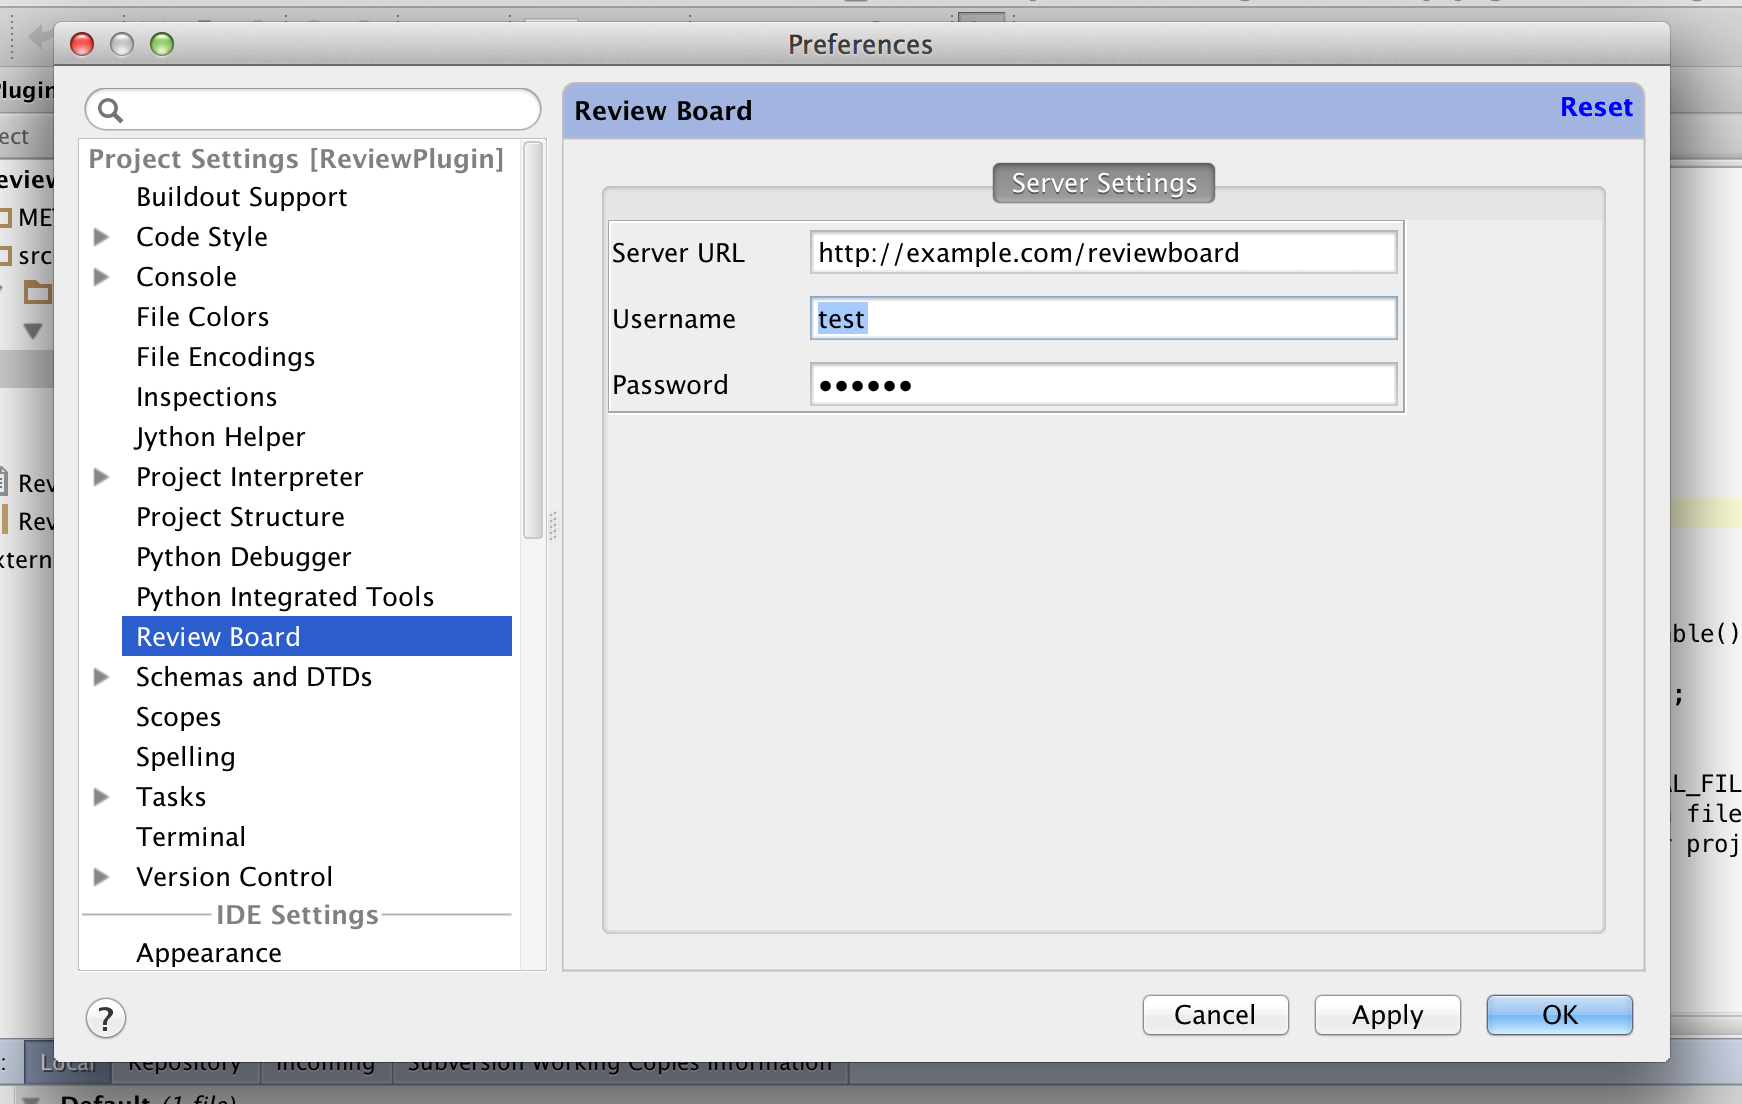
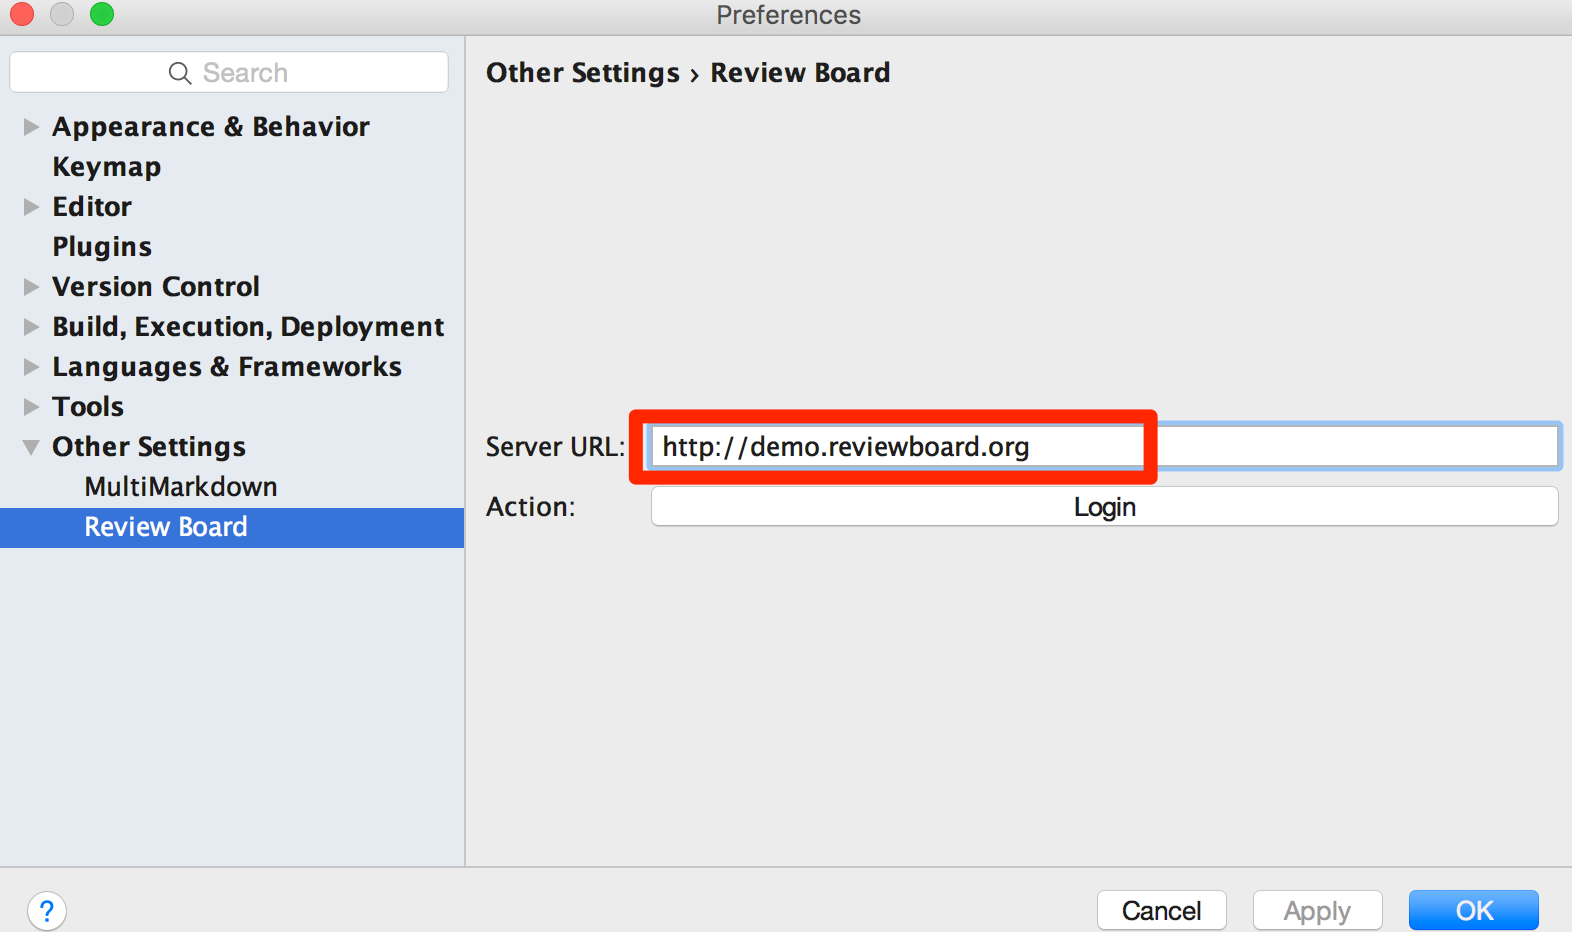
1) small refactor 2) config panel screen shot update

diff --git a/src/rb/PostReviewAction.java b/src/rb/PostReviewAction.java
@@ -16,7 +16,6 @@ import com.intellij.openapi.ui.Messages;
 import com.intellij.openapi.ui.popup.util.PopupUtil;
 import com.intellij.openapi.vcs.AbstractVcs;
 import com.intellij.openapi.vcs.ProjectLevelVcsManager;
-import com.intellij.openapi.vcs.VcsException;
 import com.intellij.openapi.vcs.changes.*;
 import com.intellij.openapi.vcs.history.VcsRevisionNumber;
 import com.intellij.openapi.vfs.VirtualFile;
@@ -65,7 +64,7 @@ public class PostReviewAction extends AnAction {
                 try {
                     VCSBuilder builder = VCSBuilder.Factory.getBuilder(vcs);
                     if (builder != null) {
-                        execute(project, builder, vFiles, changeListManager);
+                        execute(project, builder, vFiles);
                     }
                 } catch (Exception e) {
                     e.printStackTrace();
@@ -113,7 +112,7 @@ public class PostReviewAction extends AnAction {
         event.getPresentation().setEnabled(isEnable);
     }
 
-    private void execute(final Project project, final VCSBuilder vcsBuilder, VirtualFile[] vFiles, ChangeListManager changeListManager) throws Exception {
+    private void execute(final Project project, final VCSBuilder vcsBuilder, VirtualFile[] vFiles) throws Exception {
         vcsBuilder.build(project, vFiles);
         final String diff = vcsBuilder.getDiff();
         if (diff == null) {
@@ -121,22 +120,8 @@ public class PostReviewAction extends AnAction {
             return;
         }
 
-//        ReviewBoardConfig config = project.getComponent(ReviewBoardConfig.class);
-//        if (config.getServer() == null || config.getServer().isEmpty()) {
-//            Messages.showMessageDialog(project, "Please set the review board server address in config panel", "Info", null);
-//            return;
-//        }
-//        if (config.getUsername() == null || "".equals(config.getUsername())) {
-//            Messages.showMessageDialog(project, "Please set the review board user name in config panel", "Info", null);
-//            return;
-//        }
-//        if (config.getEncodedPassword() == null || config.getEncodedPassword().isEmpty()) {
-//            Messages.showMessageDialog(project, "Please set the view board password in config panel", "Info", null);
-//            return;
-//        }
-
         final ReviewBoardClient reviewBoardClient = new ReviewBoardClient();
-        Task.Backgroundable task = new Task.Backgroundable(project, "Query repository...", false, new PerformInBackgroundOption() {
+        Task.Backgroundable task = new Task.Backgroundable(project, "Query Repository...", false, new PerformInBackgroundOption() {
             @Override
             public boolean shouldStartInBackground() {
                 return false;
@@ -150,11 +135,11 @@ public class PostReviewAction extends AnAction {
             @Override
             public void run(@NotNull ProgressIndicator progressIndicator) {
                 progressIndicator.setIndeterminate(true);
-                Repository[] repositories = null;
+                Repository[] repositories;
                 try {
                     repositories = reviewBoardClient.getRepositories().repositories;
                 } catch (Exception e) {
-                    PopupUtil.showBalloonForActiveFrame("Error to list repository:"+e.getMessage(), MessageType.ERROR);
+                    PopupUtil.showBalloonForActiveFrame("Error to list repository:" + e.getMessage(), MessageType.ERROR);
                     throw new RuntimeException(e);
                 }
                 if (repositories != null) {
@@ -196,7 +181,7 @@ public class PostReviewAction extends AnAction {
                 } else {
                     setting.setDiff(vcsBuilder.getDiff());
                 }
-                Task.Backgroundable task = new Task.Backgroundable(project, "running", false, new PerformInBackgroundOption() {
+                Task.Backgroundable task = new Task.Backgroundable(project, "Running", false, new PerformInBackgroundOption() {
                     @Override
                     public boolean shouldStartInBackground() {
                         return false;
@@ -215,7 +200,7 @@ public class PostReviewAction extends AnAction {
                             int success = Messages.showYesNoDialog("The review url is " + url + "\r\n" +
                                     "Open the url?", "Success", null);
                             if (success == 0) {
-                                BrowserUtil.launchBrowser(url);
+                                BrowserUtil.browse(url);
                             }
                         } else {
 //                            Messages.showErrorDialog("Post review failure", "Error");

diff --git a/src/rb/SVNVCSBuilder.java b/src/rb/SVNVCSBuilder.java
@@ -168,8 +168,6 @@ public class SVNVCSBuilder implements VCSBuilder {
     }
 
     private List<FilePatch> buildPatch(Project project, List<Change> changes, String localRootDir, boolean b) {
-        //      List<FilePatch> filePatches = IdeaTextPatchBuilder.buildPatch(project, changes, localRootDir, false);
-//    List<FilePatch> filePatches = TextPatchBuilder.buildPatch(changes, localRootDir, false);
         Object result = null;
         try {//invoke the api in 10.x
             Class c = Class.forName("com.intellij.openapi.diff.impl.patch.IdeaTextPatchBuilder");
